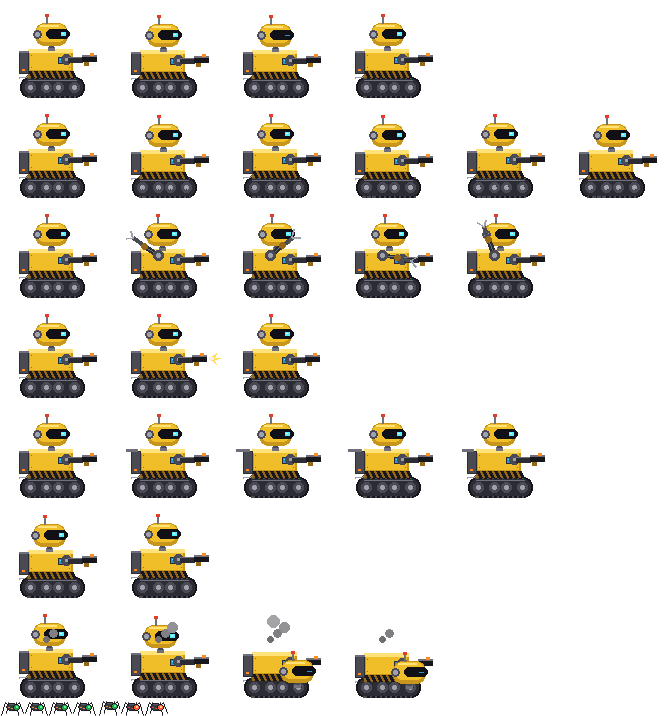
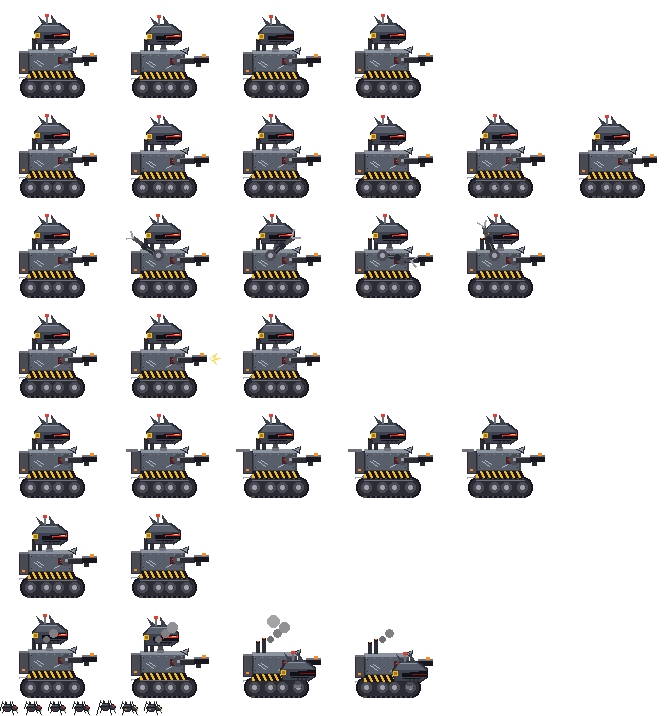
0.12.514: badass Brood_Bot and spider-bots (face forward), bots skitter when idle
Claude-Session: https://claude.ai/code/session_01MWfQtZY2YmsPgpaMMoKqpP

diff --git a/crawl.js b/crawl.js
@@ -2386,7 +2386,12 @@ class Game{
       const spd=60*(oc?1+oc.spd:1);
       if(tg){const d=tg.x-b.x,tgy=tg.gy!=null?tg.gy:this.G;b.face=d>=0?1:-1;if(Math.abs(d)>6)b.x+=Math.sign(d)*Math.min(Math.abs(d)-5,spd*dt);b.gy+=Math.sign(tgy-b.gy)*Math.min(Math.abs(tgy-b.gy),25*dt);b.moving=Math.abs(d)>6;
         if(Math.abs(d)<=8&&Math.abs(tgy-b.gy)<6){b.atkT-=dt*(oc?1+oc.spd:1);if(b.atkT<=0){b.atkT=b.A.every;b.lunge=.2;this.hitEnemy(tg,this.rollDice(b.A.dice)*b.dmgM,h&&h.alive?h:null,{sure:1,quiet:1,kb:2});}}}
-      else if(h){const hx=this.heroX(h);const ix=B.indexOf(b)%3;const tx=hx+14+ix*7,d=tx-b.x;b.moving=Math.abs(d)>3;if(b.moving){b.face=d>=0?1:-1;b.x+=Math.sign(d)*Math.min(Math.abs(d),spd*.8*dt);}b.gy+=Math.sign((h.gy||this.G)-b.gy)*Math.min(Math.abs((h.gy||this.G)-b.gy),20*dt);}
+      else if(h){   /* 0.12.514 (Kyle): with nothing to bite they skitter around near him: quick random darts, little pauses, twitchy turns */
+        const hx=this.heroX(h);const ix=B.indexOf(b)%3;b.wT=(b.wT||0)-dt;
+        if(b.wT<=0){const r=this.rng();b.wPause=r<.3;b.wT=b.wPause?.15+this.rng()*.45:.18+this.rng()*.4;if(!b.wPause){b.wx=(this.rng()-.5)*44;b.wgy=(this.rng()-.5)*12;}else if(this.rng()<.5)b.face=-(b.face||1);}
+        const tx=hx+14+ix*7+(b.wx||0),d=tx-b.x;const hgy=(h.gy||this.G),tgy=Math.max(hgy-10,Math.min(hgy+10,hgy+(b.wgy||0)));
+        b.moving=!b.wPause&&Math.abs(d)>2;if(b.moving){b.face=d>=0?1:-1;b.x+=Math.sign(d)*Math.min(Math.abs(d),spd*1.15*dt);b.gy+=Math.sign(tgy-b.gy)*Math.min(Math.abs(tgy-b.gy),30*dt);}
+        else if(Math.abs(hx+14+ix*7-b.x)>60){b.wPause=0;b.wT=0;}}
       if(b.lunge>0)b.lunge-=dt;
       /* zombies chew on the spider-bots next to them */
       for(const e of live)if(Math.abs(e.x-b.x)<8&&Math.abs((e.gy!=null?e.gy:this.G)-b.gy)<7){b.hp-=(e.dmg||3)*.45*dt*b.drM*(oc?1-oc.dr:1);b.hitT=.1;}
@@ -6083,12 +6088,12 @@ if(typeof module!=='undefined'&&module.exports){module.exports=API;}
 if(typeof document==='undefined')return;
 
 // ======================================================================= UI (browser only)
-const IMG=new Image();IMG.src='crawl.png?v=1795676592';const BGI=new Image();BGI.src='crawl_bg.png?v=1795676592';
-const SP=ATLAS.sprites,BGA=ATLAS.bg,RES=ATLAS.res||1;const UNITS=ATLAS.units||{};const UIMG=new Image();UIMG.src='crawl_units.png?v=1795676592';const RAIN={f:{fw:5,fh:18,n:1,ax:2,ay:17,x:0,y:0,img:'rain'},s:{fw:5,fh:11,n:1,ax:2,ay:10,x:8,y:7,img:'rain'}};
+const IMG=new Image();IMG.src='crawl.png?v=1795676735';const BGI=new Image();BGI.src='crawl_bg.png?v=1795676735';
+const SP=ATLAS.sprites,BGA=ATLAS.bg,RES=ATLAS.res||1;const UNITS=ATLAS.units||{};const UIMG=new Image();UIMG.src='crawl_units.png?v=1795676735';const RAIN={f:{fw:5,fh:18,n:1,ax:2,ay:17,x:0,y:0,img:'rain'},s:{fw:5,fh:11,n:1,ax:2,ay:10,x:8,y:7,img:'rain'}};
 const CAMPF={fw:34,fh:40,ax:17,ay:37,y:0,img:'camp'};
-const XIMG={cityob:new Image(),cars:new Image(),cultist:new Image(),tentacle:new Image(),robot:new Image(),obst:new Image(),lumberjack:new Image(),camp:new Image(),druid:new Image(),tornado:new Image(),vine:new Image(),thorn:new Image(),rain:new Image(),flannel:new Image(),alchemist:new Image(),boom:new Image(),pal:new Image(),chibi:new Image(),wave:new Image(),archer:new Image()};XIMG.archer.src='crawl_archer.png?v=1795676592';XIMG.wave.src='crawl_wave.png?v=1795676592';XIMG.chibi.src='crawl_chibi.png?v=1795676592';XIMG.flannel.src='crawl_flannel.png?v=1795676592';XIMG.alchemist.src='crawl_alch.png?v=1795676592';XIMG.jp=new Image();XIMG.jp.src='crawl_jp.png?v=1795676592';XIMG.eng=new Image();XIMG.eng.src='crawl_eng.png?v=1795676592';XIMG.shoshi=new Image();XIMG.shoshi.src='crawl_shoshi.png?v=1795676592';XIMG.teeg=new Image();XIMG.teeg.src='crawl_teeg.png?v=1795676592';XIMG.seekyle=new Image();XIMG.seekyle.src='crawl_seekyle.png?v=1795676592';XIMG.kids=new Image();XIMG.kids.src='crawl_kids.png?v=1795676592';XIMG.gear=new Image();XIMG.gear.src='crawl_gear.png?v=1795676592';XIMG.portals=new Image();XIMG.portals.src='crawl_portals.png?v=1795676592';XIMG.skel=new Image();XIMG.skel.src='crawl_skel.png?v=1795676592';XIMG.knight=new Image();XIMG.knight.src='crawl_knight.png?v=1795676592';XIMG.strike=new Image();XIMG.strike.src='crawl_strike.png?v=1795676592';XIMG.soldier=new Image();XIMG.soldier.src='crawl_soldier.png?v=1795676592';XIMG.bghood=new Image();XIMG.bghood.src='crawl_bg_hood.png?v=1795676592';XIMG.bloater=new Image();XIMG.hazmat=new Image();XIMG.hazmat.src='crawl_hazmat.png?v=1795676592';XIMG.bloater.src='crawl_bloater.png?v=1795676592';XIMG.screamer=new Image();XIMG.screamer.src='crawl_screamer.png?v=1795676592';XIMG.flame=new Image();XIMG.flame.src='crawl_flame.png?v=1795676592';XIMG.rain.src='crawl_rain.png?v=1795676592';XIMG.druid.src='crawl_druid.png?v=1795676592';XIMG.camp.src='crawl_campfire.png?v=1795676592';XIMG.lumberjack.src='crawl_lumberjack.png?v=1795676592';XIMG.tornado.src='crawl_fx_tornado.png?v=1795676592';XIMG.broodbot=new Image();XIMG.broodbot.src='crawl_broodbot.png?v=1795676592';XIMG.bub=new Image();XIMG.bub.src='crawl_bub.png?v=1795676592';XIMG.vine.src='crawl_fx_vine.png?v=1795676592';XIMG.thorn.src='crawl_fx_thorn.png?v=1795676592';
+const XIMG={cityob:new Image(),cars:new Image(),cultist:new Image(),tentacle:new Image(),robot:new Image(),obst:new Image(),lumberjack:new Image(),camp:new Image(),druid:new Image(),tornado:new Image(),vine:new Image(),thorn:new Image(),rain:new Image(),flannel:new Image(),alchemist:new Image(),boom:new Image(),pal:new Image(),chibi:new Image(),wave:new Image(),archer:new Image()};XIMG.archer.src='crawl_archer.png?v=1795676735';XIMG.wave.src='crawl_wave.png?v=1795676735';XIMG.chibi.src='crawl_chibi.png?v=1795676735';XIMG.flannel.src='crawl_flannel.png?v=1795676735';XIMG.alchemist.src='crawl_alch.png?v=1795676735';XIMG.jp=new Image();XIMG.jp.src='crawl_jp.png?v=1795676735';XIMG.eng=new Image();XIMG.eng.src='crawl_eng.png?v=1795676735';XIMG.shoshi=new Image();XIMG.shoshi.src='crawl_shoshi.png?v=1795676735';XIMG.teeg=new Image();XIMG.teeg.src='crawl_teeg.png?v=1795676735';XIMG.seekyle=new Image();XIMG.seekyle.src='crawl_seekyle.png?v=1795676735';XIMG.kids=new Image();XIMG.kids.src='crawl_kids.png?v=1795676735';XIMG.gear=new Image();XIMG.gear.src='crawl_gear.png?v=1795676735';XIMG.portals=new Image();XIMG.portals.src='crawl_portals.png?v=1795676735';XIMG.skel=new Image();XIMG.skel.src='crawl_skel.png?v=1795676735';XIMG.knight=new Image();XIMG.knight.src='crawl_knight.png?v=1795676735';XIMG.strike=new Image();XIMG.strike.src='crawl_strike.png?v=1795676735';XIMG.soldier=new Image();XIMG.soldier.src='crawl_soldier.png?v=1795676735';XIMG.bghood=new Image();XIMG.bghood.src='crawl_bg_hood.png?v=1795676735';XIMG.bloater=new Image();XIMG.hazmat=new Image();XIMG.hazmat.src='crawl_hazmat.png?v=1795676735';XIMG.bloater.src='crawl_bloater.png?v=1795676735';XIMG.screamer=new Image();XIMG.screamer.src='crawl_screamer.png?v=1795676735';XIMG.flame=new Image();XIMG.flame.src='crawl_flame.png?v=1795676735';XIMG.rain.src='crawl_rain.png?v=1795676735';XIMG.druid.src='crawl_druid.png?v=1795676735';XIMG.camp.src='crawl_campfire.png?v=1795676735';XIMG.lumberjack.src='crawl_lumberjack.png?v=1795676735';XIMG.tornado.src='crawl_fx_tornado.png?v=1795676735';XIMG.broodbot=new Image();XIMG.broodbot.src='crawl_broodbot.png?v=1795676735';XIMG.bub=new Image();XIMG.bub.src='crawl_bub.png?v=1795676735';XIMG.vine.src='crawl_fx_vine.png?v=1795676735';XIMG.thorn.src='crawl_fx_thorn.png?v=1795676735';
 const TORN={fw:96,fh:96,n:16,ax:48,ay:90,x:0,y:0,img:'tornado',art:1},VINE={fw:260,fh:116,n:7,ax:130,ay:110,x:0,y:0,img:'vine',art:1};
-const THORNS=[[0,35,53],[37,67,79],[106,36,82],[144,87,74]].map(([x,w,h])=>({fw:w,fh:h,n:1,ax:w/2,ay:81,x,y:82-h,img:'thorn',art:1}));XIMG.pal.src='crawl_pal.png?v=1795676592';XIMG.axe=new Image();XIMG.axe.src='crawl_axe.png?v=1795676592';XIMG.fxp=new Image();XIMG.fxp.src='crawl_fxpack.png?v=1795676592';XIMG.nest=new Image();XIMG.nest.src='crawl_mgnest.png?v=1795676592';XIMG.dog=new Image();XIMG.dog.src='crawl_dog.png?v=1795676592';XIMG.bat=new Image();XIMG.bat.src='crawl_bat.png?v=1795676592';XIMG.edward=new Image();XIMG.edward.src='crawl_edward.png?v=1795676592';XIMG.cheez=new Image();XIMG.cheez.src='crawl_cheez.png?v=1795676592';XIMG.chumboom=new Image();XIMG.chumboom.src='crawl_chumboom.png?v=1795676592';XIMG.cheezhorse=new Image();XIMG.cheezhorse.src='crawl_cheezhorse.png?v=1795676592';XIMG.obst.src='crawl_obst.png?v=1795676592';XIMG.cityob.src='crawl_cityob.png?v=1795676592';XIMG.cars.src='crawl_cars.png?v=1795676592';XIMG.robot.src='crawl_robot.png?v=1795676592';XIMG.cultist.src='crawl_cultist.png?v=1795676592';XIMG.tentacle.src='crawl_tentacle.png?v=1795676592';XIMG.boom.src='crawl_boom.png?v=1795676592';
+const THORNS=[[0,35,53],[37,67,79],[106,36,82],[144,87,74]].map(([x,w,h])=>({fw:w,fh:h,n:1,ax:w/2,ay:81,x,y:82-h,img:'thorn',art:1}));XIMG.pal.src='crawl_pal.png?v=1795676735';XIMG.axe=new Image();XIMG.axe.src='crawl_axe.png?v=1795676735';XIMG.fxp=new Image();XIMG.fxp.src='crawl_fxpack.png?v=1795676735';XIMG.nest=new Image();XIMG.nest.src='crawl_mgnest.png?v=1795676735';XIMG.dog=new Image();XIMG.dog.src='crawl_dog.png?v=1795676735';XIMG.bat=new Image();XIMG.bat.src='crawl_bat.png?v=1795676735';XIMG.edward=new Image();XIMG.edward.src='crawl_edward.png?v=1795676735';XIMG.cheez=new Image();XIMG.cheez.src='crawl_cheez.png?v=1795676735';XIMG.chumboom=new Image();XIMG.chumboom.src='crawl_chumboom.png?v=1795676735';XIMG.cheezhorse=new Image();XIMG.cheezhorse.src='crawl_cheezhorse.png?v=1795676735';XIMG.obst.src='crawl_obst.png?v=1795676735';XIMG.cityob.src='crawl_cityob.png?v=1795676735';XIMG.cars.src='crawl_cars.png?v=1795676735';XIMG.robot.src='crawl_robot.png?v=1795676735';XIMG.cultist.src='crawl_cultist.png?v=1795676735';XIMG.tentacle.src='crawl_tentacle.png?v=1795676735';XIMG.boom.src='crawl_boom.png?v=1795676735';
 const WAVE={fw:110,fh:68,n:1,ax:48,ay:63,x:0,y:0,img:'wave'};   // Wave Dash energy wave (3 flickering frames)
 const BOOM={fw:128,fh:131,n:15,ax:64,ay:128,x:0,y:0,img:'boom',art:1};   // explosion frames from Kyle's sheet (15 frames, half size)
 const ART_SCALE=21/152;   // full-detail character art drawn at the in-game size Kyle liked (his 152px-tall art = 21 world px)
@@ -6123,7 +6128,7 @@ function musicStop(){try{if(BGM)BGM.pause();}catch(e){}}
 /* 0.12.310 recorded clips (Tee_Grizzle): decoded once, played through the same AudioContext as the synth sounds */
 const SAMP={teeg1:{src:'crawl_teeg1',off:.34},teeg2:{src:'crawl_teeg2',off:0},teeg3:{src:'crawl_teeg3',off:0},jp1:{src:'crawl_jp1',off:0},kidhowl:{src:'crawl_kidhowl',off:0},leiftag:{src:'crawl_leiftag',off:0}};   /* 0.12.394: the boys' howl, Leif's "tag!" */   /* 0.12.380: Tee's Pistol_Play line, JP's No_Scope line */
 function sampLoad(k){const S=SAMP[k];if(!S||S.buf||S.loading||!AC)return;S.loading=1;const ext=(new Audio()).canPlayType('audio/ogg; codecs="vorbis"')?'.ogg':'.mp3';
-  fetch(S.src+ext+'?v=1795676592').then(r=>r.arrayBuffer()).then(b=>AC.decodeAudioData(b,d=>{S.buf=d;},()=>{})).catch(()=>{});}
+  fetch(S.src+ext+'?v=1795676735').then(r=>r.arrayBuffer()).then(b=>AC.decodeAudioData(b,d=>{S.buf=d;},()=>{})).catch(()=>{});}
 function sampPlay(k,off,vol,soft){const S=SAMP[k];if(!S)return;if(!S.buf){sampLoad(k);return;}const src=AC.createBufferSource(),g=AC.createGain();src.buffer=S.buf;g.gain.value=vol==null?.55:vol;
   if(soft){const lp=AC.createBiquadFilter();lp.type='lowpass';lp.frequency.value=soft;lp.Q.value=.5;src.playbackRate.value=.94+Math.random()*.1;src.connect(lp);lp.connect(g);}else src.connect(g);g.connect(AC.destination);src.start(0,off==null?S.off:off);}   /* 0.12.329 (Kyle: a bit less annoying): Tee's clips play softer, muffled (low-pass) and with a little pitch wobble */
 function sfx(k,o){if(muted)return;try{AC=AC||new (window.AudioContext||window.webkitAudioContext)();const t=AC.currentTime;
@@ -7407,7 +7412,7 @@ let root,cv,ctx,panel,hud,info,bossEl,banner;
 function build(){
   if(root)return;if(!document.getElementById('cc-style')){const st=document.createElement('style');st.id='cc-style';st.textContent=CSS;document.head.appendChild(st);}
   root=document.createElement('div');root.id='cc';root.hidden=true;root.setAttribute('role','dialog');root.setAttribute('aria-label','Crypt Crawl');
-  root.innerHTML=`<div class="cc-top"><span class="t">⚰ CRYPT CRAWL <span style="color:#6a5a7a;font-size:8px">v0.12.513</span></span>
+  root.innerHTML=`<div class="cc-top"><span class="t">⚰ CRYPT CRAWL <span style="color:#6a5a7a;font-size:8px">v0.12.514</span></span>
     <button class="cc-ib" data-a="restart" title="Restart this stage from its save point" hidden>↺</button><button class="cc-ib" data-a="pause" title="Pause">⏸</button><button class="cc-ib" data-a="speed" title="Game speed">1×</button>
     <button class="cc-ib" data-a="brain" title="Show what every unit is thinking">🧠</button><button class="cc-ib" data-a="mute" title="Sound effects">${muted?'🔇':'🔊'}</button><button class="cc-ib" data-a="music" title="Music on/off">${musicMuted?'🎵̸':'🎵'}</button><button class="cc-ib" data-a="track" title="Next track (now: ${TRACKS[trackI].name})">⏭</button><input class="cc-vol" data-vol type="range" min="0" max="100" value="${Math.round(musicVol*100)}" title="Music volume"><button class="cc-ib" data-a="zoom" title="Zoom (Auto: closer camera on phones)">🔍</button><button class="cc-ib" data-a="side" title="Turn sideways (phones held upright)">⟳</button><button class="cc-ib" data-a="fs" title="Full screen">⛶</button><button class="cc-ib" data-a="close" title="Close">✕</button></div>
     <div class="cc-main"><div class="cc-info"></div><div class="cc-cvw"><div class="cc-uf"></div><canvas id="cc-cv" width="${384*RES*GQ}" height="${216*RES*GQ}"></canvas></div><div class="cc-boss"></div><div class="cc-banner"></div><div class="cc-hud"></div><div class="cc-panel"></div></div>`;
@@ -7720,7 +7725,7 @@ function showTree(k){const s=SLOT(),L=s&&s.heroes[k];if(!L)return;L.tk=k;treeIni
       return `<div class="${cls}" data-n="${n.id}" title="${esc(n.name)}" style="grid-row:${n.row};grid-column:${'abcd'.indexOf(n.col)+1}">${n.icon}<span class="trk">${rk}/${n.max}</span></div>`;};
     const col=(B,bi)=>{const bp=treeBranchPts(k,L,bi);const nxt=TREE_REQ.find(q=>q>bp);
       return `<div class="tbr" data-bi="${bi}" style="flex:1 1 0;min-width:0;max-width:340px;position:relative;border:2px solid #3a2e4a;border-radius:12px;overflow:hidden;box-shadow:0 0 18px #000c;
-          background:linear-gradient(180deg,#0006,#000a 70%),url(crawl_talbg.png?v=1795676592) ${-(B.bg||0)*100}% 0/900% 100%;image-rendering:pixelated">
+          background:linear-gradient(180deg,#0006,#000a 70%),url(crawl_talbg.png?v=1795676735) ${-(B.bg||0)*100}% 0/900% 100%;image-rendering:pixelated">
         <svg class="tlines" style="position:absolute;inset:0;width:100%;height:100%;pointer-events:none;z-index:0"></svg>
         <div style="position:relative;z-index:1;text-align:center;font-weight:800;color:#ffe9a8;letter-spacing:.5px;padding-top:6px;text-shadow:0 1px 3px #000;font-size:${sm?11:14}px;white-space:nowrap;overflow:hidden;text-overflow:ellipsis">${B.icon} ${esc(B.name)}</div>
         <div style="position:relative;z-index:1;font-size:9.5px;text-align:center;color:#c9b8e0;text-shadow:0 1px 2px #000">${bp} point${bp===1?'':'s'} · ${nxt!=null?`next tier at ${nxt}`:'every tier open'}</div>
@@ -7766,7 +7771,7 @@ function showTree(k){const s=SLOT(),L=s&&s.heroes[k];if(!L)return;L.tk=k;treeIni
 /* 0.12.338 (Kyle) GEAR screen: 3 slots per hero (Weapon / Armor / Trinket), a stash, free swaps. Tap anything to see it in full
    (no hover needed). Spare parts raise an item a quality tier (Rusted -> plain -> Fine -> Masterwork); scrapping gives parts back. */
 function gearIcon(it,sz){const D=gearDef(it);if(!D)return '';sz=sz||32;const k=sz/32;const R=GEAR_RAR[D.r];
-  return `<span style="display:inline-block;width:${sz}px;height:${sz}px;background:url(crawl_gear.png?v=1795676592) ${-(D.id%16)*sz}px ${-Math.floor(D.id/16)*sz}px/${512*k}px auto;image-rendering:pixelated;filter:drop-shadow(0 0 3px ${R.c}aa)${it.q===0?' sepia(.7) saturate(.6)':''}"></span>`;}
+  return `<span style="display:inline-block;width:${sz}px;height:${sz}px;background:url(crawl_gear.png?v=1795676735) ${-(D.id%16)*sz}px ${-Math.floor(D.id/16)*sz}px/${512*k}px auto;image-rendering:pixelated;filter:drop-shadow(0 0 3px ${R.c}aa)${it.q===0?' sepia(.7) saturate(.6)':''}"></span>`;}
 function showGear(k0){const s=SLOT();if(!s)return;const run=s.run;const team=(run&&run.team)||[k0];let k=k0;let sel=null,filt='all';gearSlot(s);
   let ov=document.getElementById('cc-gear');if(ov)ov.remove();ov=document.createElement('div');ov.id='cc-gear';
   ov.style.cssText='position:fixed;inset:0;z-index:9000;background:radial-gradient(ellipse at 50% 20%,rgba(40,30,70,.6),rgba(4,2,8,.96));overflow:hidden';   /* 0.12.501 (Kyle): full screen and scrollable, close in the top-right (works on the flipped screen too) */

diff --git a/notes.html b/notes.html
@@ -1,4 +1,8 @@
       <h2>What's new</h2>
+      <h3>0.12.514 — Brood_Bot gets mean, spider-bots skitter</h3>
+<ul><li><b>Brood_Bot</b> is now a gunmetal war machine instead of a yellow toy: an angular horned helmet with an angry red slit visor and a jaw grille, riveted and scratched armor, a yellow-and-black hazard band, twin exhaust stacks with embers, a shoulder spike and a red chest light.</li>
+<li><b>Spider-bots</b> redrawn so they clearly face the way they run: a small armored head up front with a cluster of red eyes and little mandibles, a plated abdomen behind with a hazard light and a back spine, and sharper legs with steel claw tips. The big round light that made them look like they were running backwards is gone. When they're about to blow, their eyes and hazard light go white-hot.</li>
+<li><b>Skittering:</b> with nothing to attack they don't just park beside him anymore. They dart around near him in quick random bursts, pause, twitch around to face the other way, then dart off again. As soon as a zombie comes in range they go for it as before.</li></ul>
       <h3>0.12.513 — Bub's kit is Romero's Bub</h3>
 <ul><li>Bub's kit now fits Dr. Logan's trained zombie from Day of the Dead instead of Día de los Muertos. The numbers are the same; only names, lines and visuals changed.</li>
 <li><b>Ode_To_Joy</b> (was Ofrenda): he sets down his old tape player blasting Beethoven, with music notes drifting up. For 8s everyone within 165px heals 2% of max HP and gets 4 energy a second.</li>
